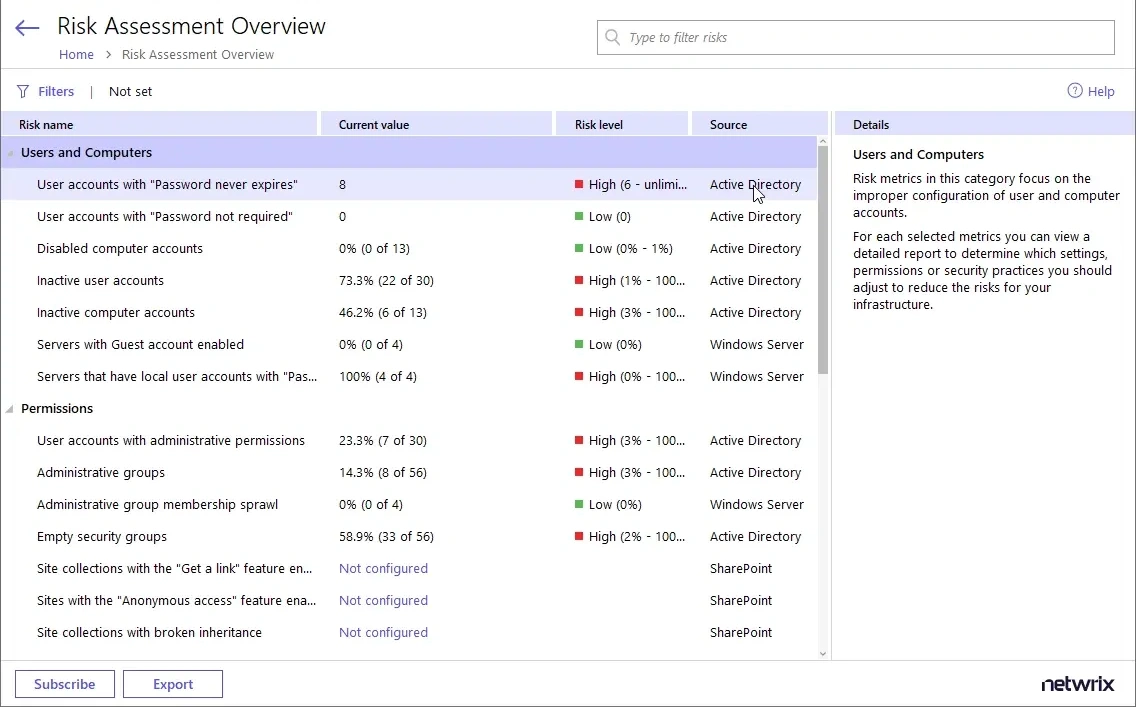
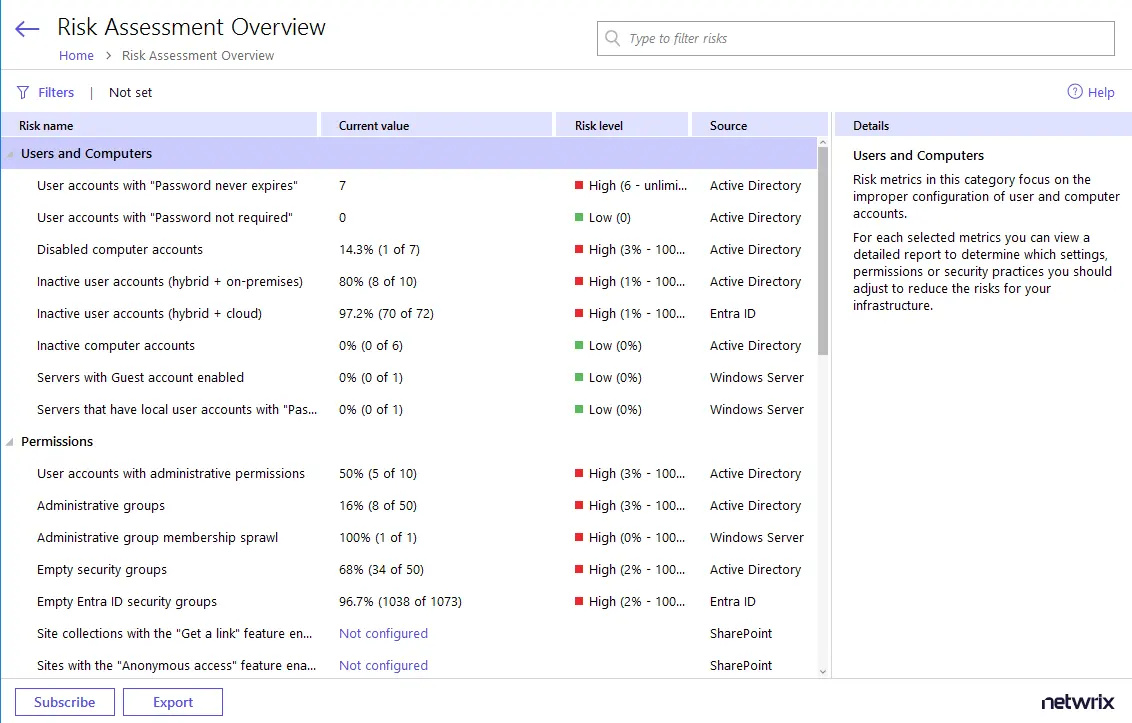
docs(auditor): add Entra ID empty security groups risk metric (#1448)
Adds the Empty Entra ID security groups risk to the IT Risk Assessment overview and threshold tables, and updates the dashboard screenshot to reflect it.

Generated with AI

diff --git a/docs/auditor/10.9/admin/riskassessment/levels.md b/docs/auditor/10.9/admin/riskassessment/levels.md
@@ -60,6 +60,7 @@ The following signs are used to define risk level intervals and threshold values
 | Administrative groups                                                   | Number of administrative groups / Overall number of groups (%)                                                                                                                                                                                                                                                                                                                        | - ≤ 2% — Low - (2% – 3%) — Medium - ≥ 3% — High    |
 | Administrative group membership sprawl\*                                | Number of Windows servers whose Local Administrators Group members differ from those specified in the whitelist / Overall number of servers (%)                                                                                                                                                                                                                                       | - 0% — Low - >0% — High                            |
 | Empty security groups                                                   | Number of security groups without members / Overall number of security groups (%)                                                                                                                                                                                                                                                                                                     | - ≤ 1% — Low - (1% – 2%) — Medium - ≥ 2% — High    |
+| Empty Entra ID security groups                                          | Number of empty Entra ID security groups without members / Overall number of Entra ID security groups (%)                                                                                                                                                                                                                                                                             | - ≤ 1% — Low - (1% – 2%) — Medium - ≥ 2% — High    |
 | Site collections with the **Get a link** feature enabled                | Number of site collections with the Get a link feature enabled / Total number of site collections (%)                                                                                                                                                                                                                                                                                 | - ≤30% — Low - (30% - 60%) — Medium - ≥60% — High  |
 | Sites with the **Anonymous access** feature enabled                     | Number of sites with the Anonymous access feature enabled / Total number of sites (%)                                                                                                                                                                                                                                                                                                 | - ≤30% — Low - (30% - 60%) — Medium - ≥60% — High  |
 | Site collections with broken inheritance                                | Number of site collections with broken inheritance / Total number of site collections (%)                                                                                                                                                                                                                                                                                             | - ≤30% — Low - (30% - 60%) — Medium - ≥60% — High  |

diff --git a/docs/auditor/10.9/admin/riskassessment/overview.md b/docs/auditor/10.9/admin/riskassessment/overview.md
@@ -40,6 +40,7 @@ have at least one item added. See the following table for the certain reports:
 | Administrative groups                                                   | AD domain                                     |                     |
 | Administrative group membership sprawl                                  | Windows Server                                |                     |
 | Empty security group                                                    | AD domain                                     |                     |
+| Empty Entra ID security groups                                          | Microsoft Entra ID                            |                     |
 | Site collections with the "Get a link" feature enabled                  | SharePoint farm                               |                     |
 | Sites with the "Anonymous access" feature enabled                       | SharePoint farm                               |                     |
 | Site collections with broken inheritance                                | SharePoint farm                               |                     |
